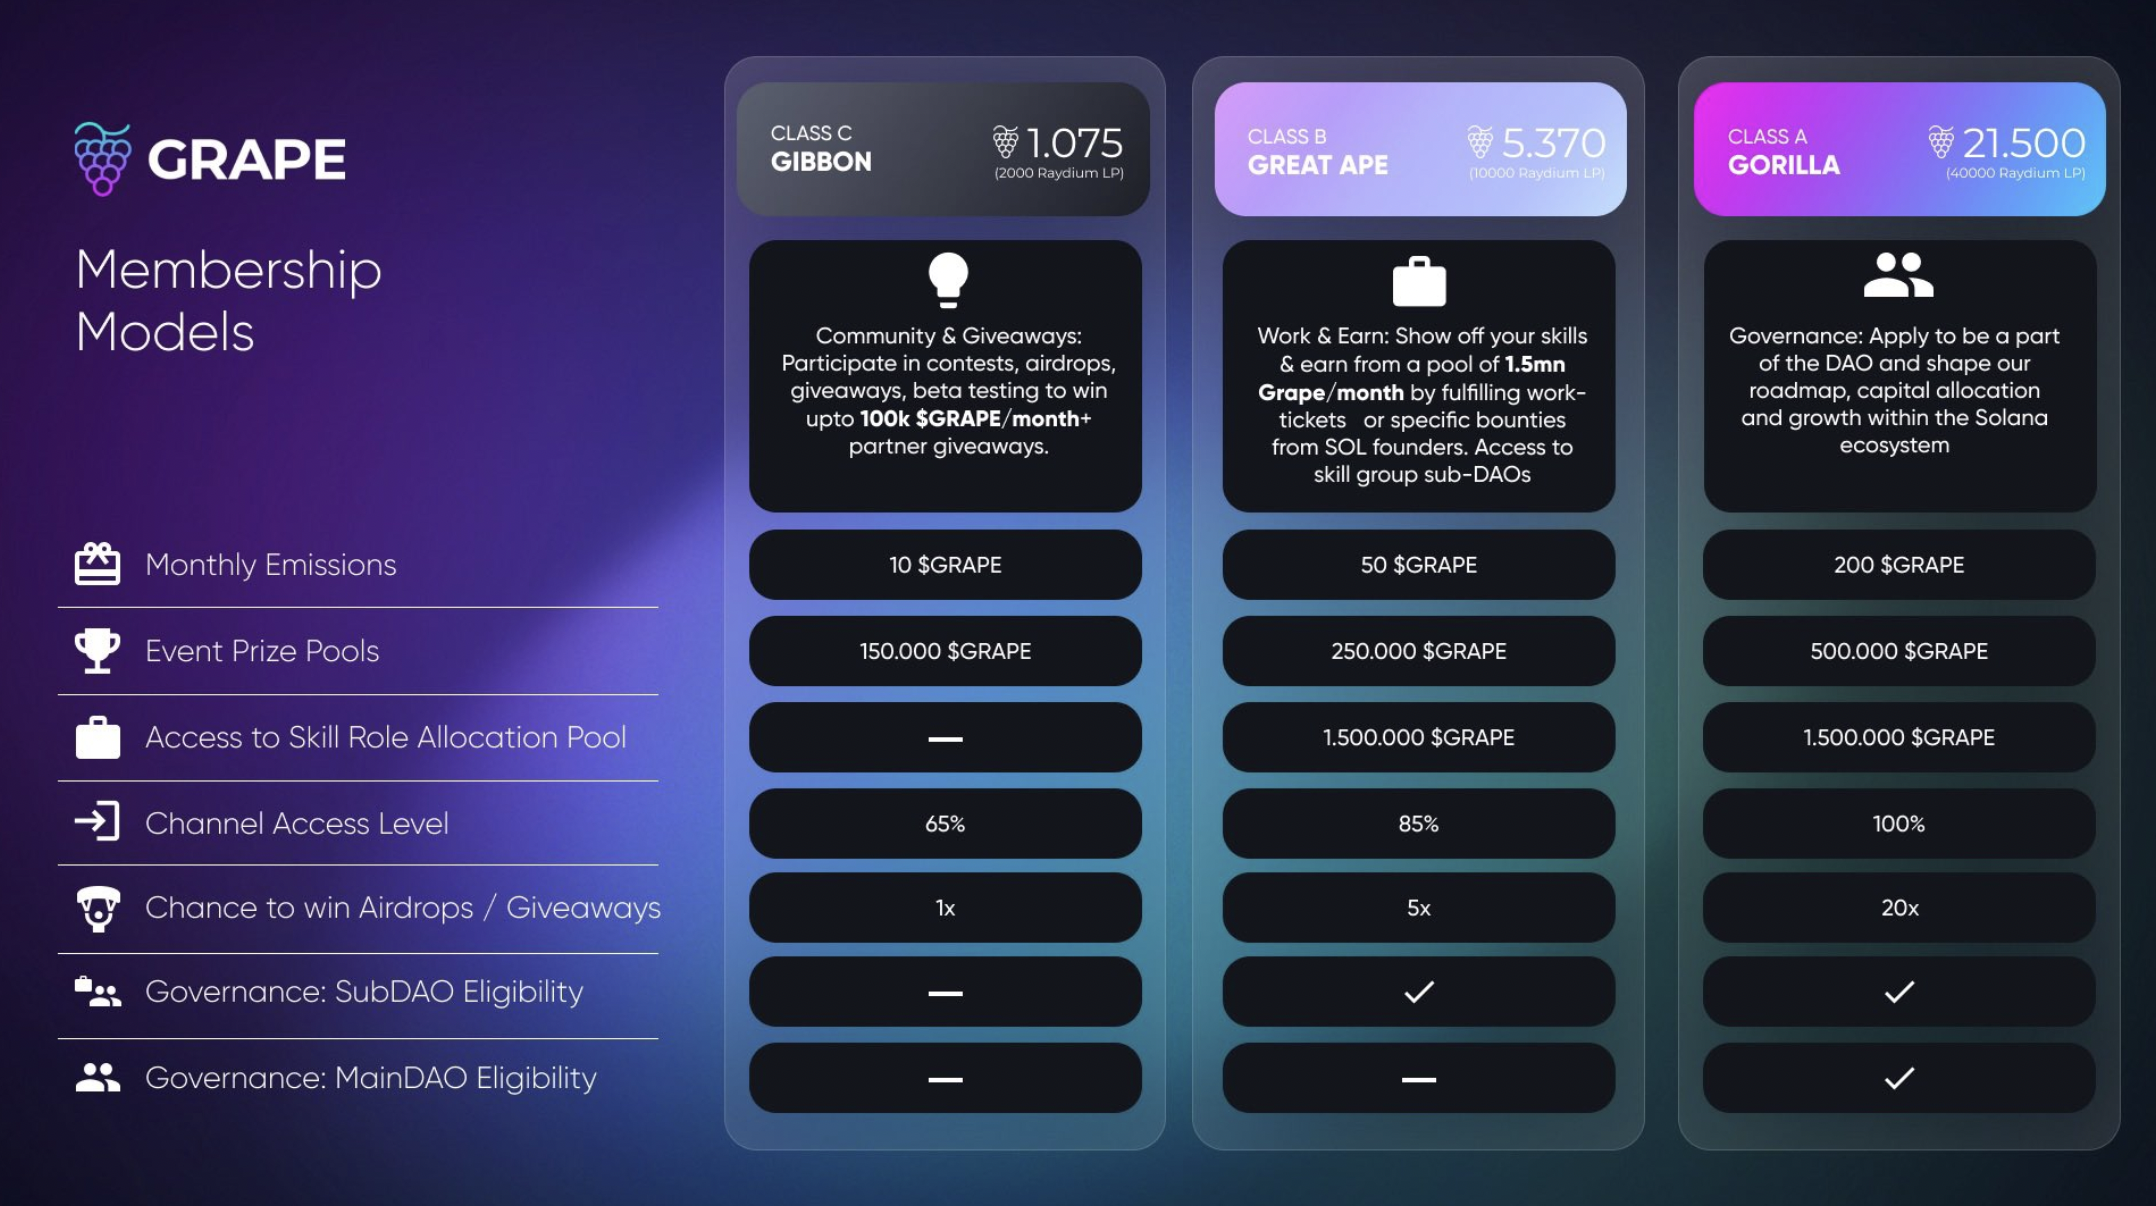
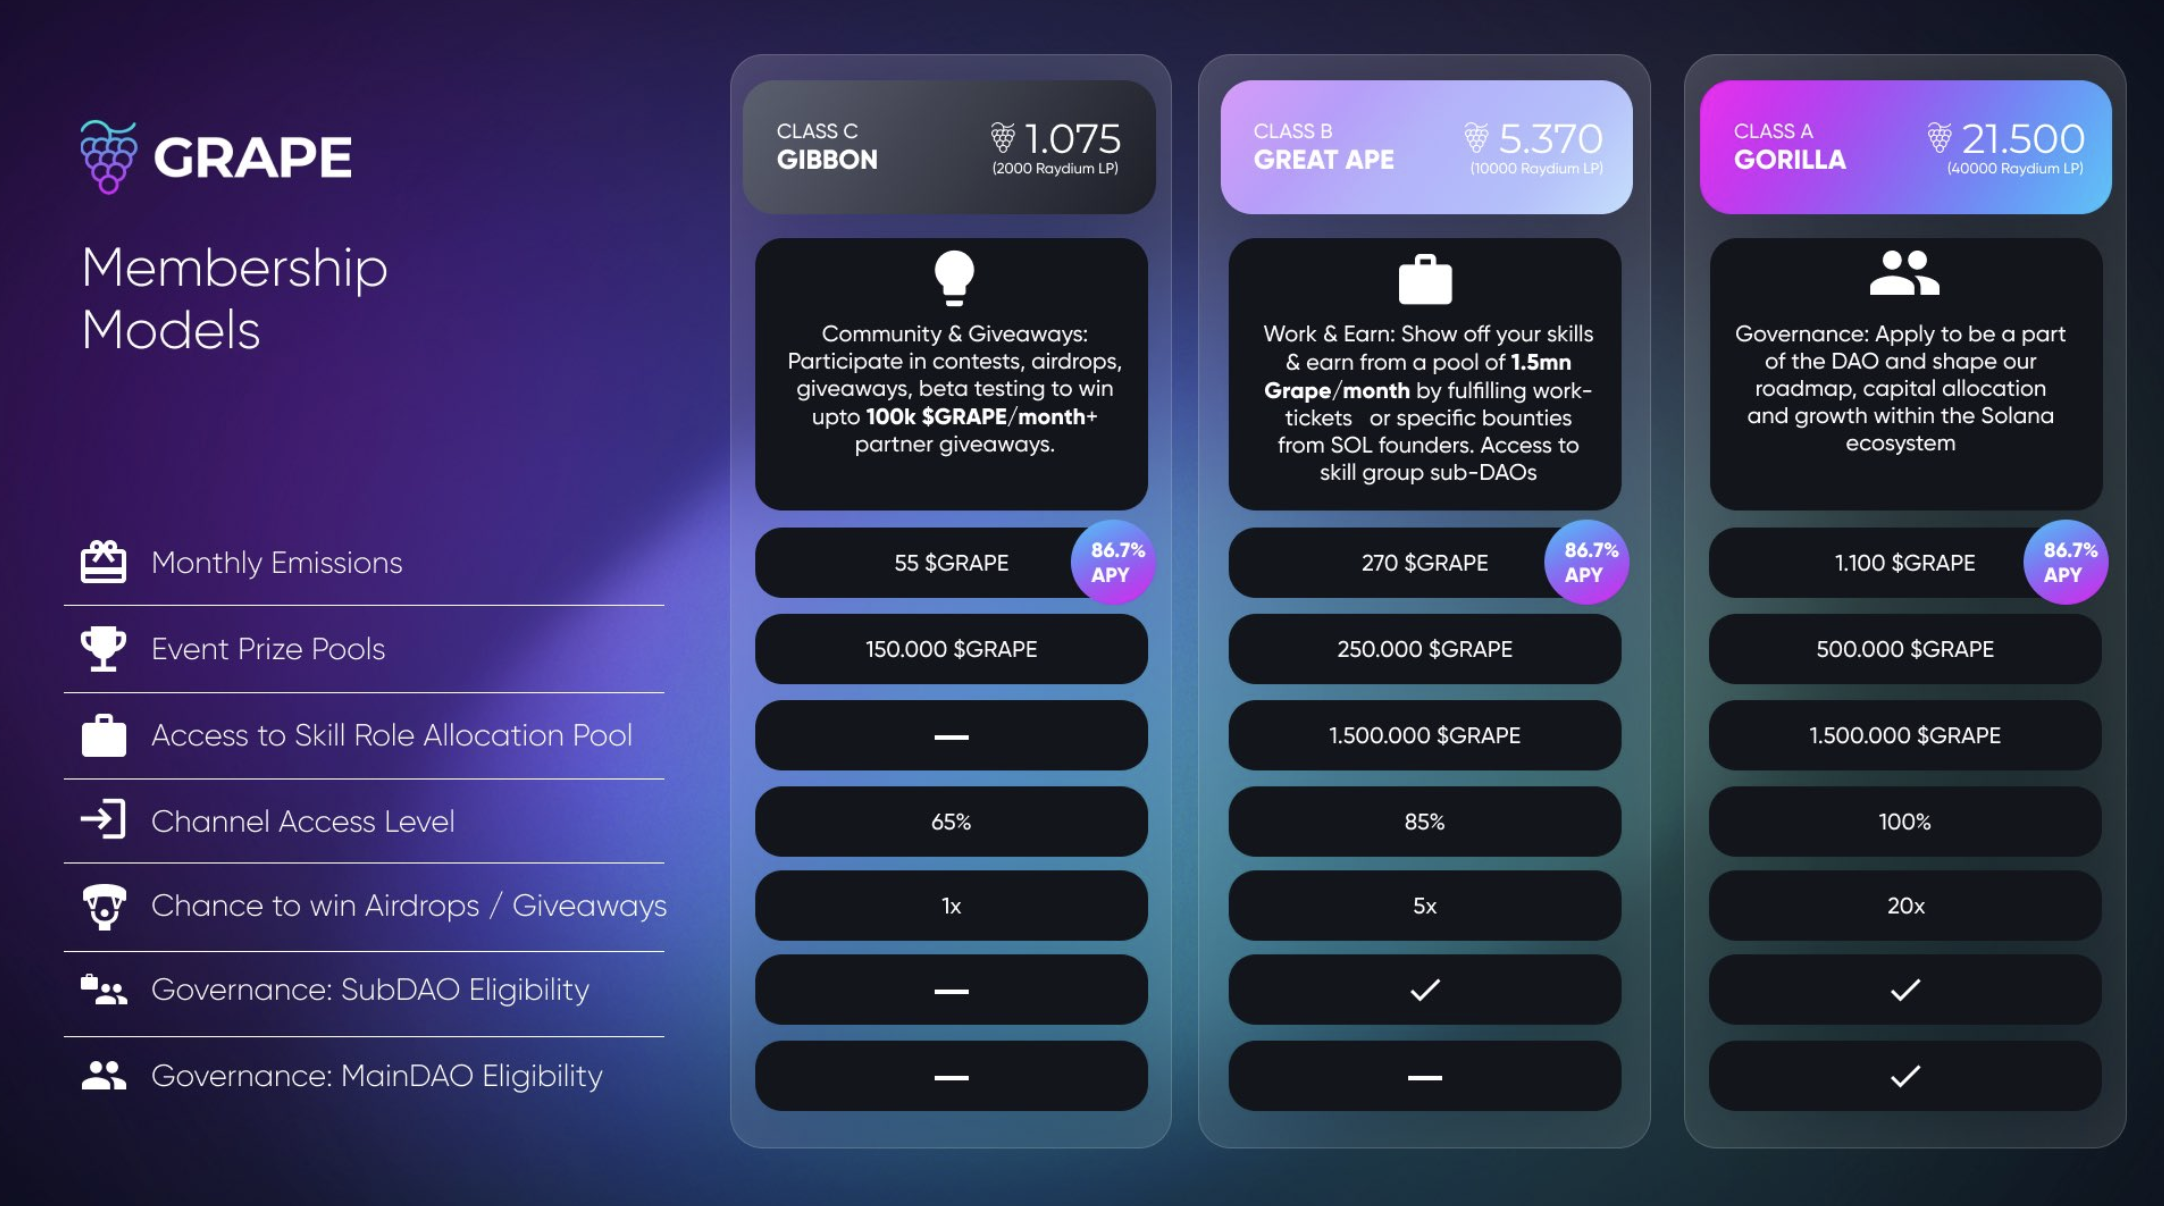
GitBook: [#50] Infographic and DAO reapplication documentation

diff --git a/grape-dao/dao-organization/additions-and-removals.md b/grape-dao/dao-organization/additions-and-removals.md
@@ -1,0 +1,31 @@
+# Additions and Removals
+
+### **DAO Additions**
+
+New additions are sourced from the _**DAO-prospects**_; _****_ a channel, which applicants get access after submitting a [<mark style="color:purple;">**DAO Application**</mark>](../../grape-community/get-involved/dao-application.md). Every Sunday, the past week's candidates are evaluated and are either granted or refused the DAO role based on the aforementioned criteria.&#x20;
+
+
+
+### **DAO Removals**
+
+DAO members will be automatically removed in case of **inactivity**.&#x20;
+
+The metric used to assess inactivity is lack of use/interaction with the Grape DAO's main proposal and discussion tool, Discourse, for over two weeks. Participating in the decision-making is crucial for the success of the DAO.
+
+
+
+**Reapplication Process**
+
+In case a member got removed from the DAO due to inactivity and wants to re-apply:
+
+* Resubmit the form in [<mark style="color:purple;">**#dao-application**</mark>](https://discord.gg/greatape) __ on Discord.
+* Once in the #dao-prospects channel, provide an explanation for:&#x20;
+  * the lack of activity,&#x20;
+  * the reason why you wish to return, and&#x20;
+  * what you would like to do if you get to become a DAO Member again.
+
+After that, it’s up to the DAO to accept reapplicants back. Reapplications will be evaluated every week, on Sunday’s DAO call, along with other additions and removals.
+
+The DAO Board will be keeping track of all future reapplicants and be accepting a maximum of 2 reapplications per member.&#x20;
+
+We realize that often life gets in the way of things. In that case, please give us a heads-up if you need to be away for a while so that we don't misinterpret your inactivity.

diff --git a/grape-dao/dao-organization/README.md b/grape-dao/dao-organization/README.md
@@ -8,9 +8,9 @@ description: >-
 
 ### subDAOs
 
-The <mark style="color:purple;">****</mark> [<mark style="color:purple;">**subDAOs**</mark> ](../grape-subdaos/sub-daos.md)are our economic and social powerhouses and sustain value generation for the whole Grape Community. They consist of members with specific talents recognized by a corresponding [<mark style="color:purple;">**Skill Role**</mark>](../grape-community/get-involved/skill-roles.md).
+The <mark style="color:purple;">****</mark> [<mark style="color:purple;">**subDAOs**</mark> ](../../grape-subdaos/sub-daos.md)are our economic and social powerhouses and sustain value generation for the whole Grape Community. They consist of members with specific talents recognized by a corresponding [<mark style="color:purple;">**Skill Role**</mark>](../../grape-community/get-involved/skill-roles.md).
 
-If you have a certain skill or talent that you think can help the community and want to be part of Grape, hop on our Discord server or visit: [<mark style="color:purple;">**Get involved!**</mark>](../grape-community/get-involved/)
+If you have a certain skill or talent that you think can help the community and want to be part of Grape, hop on our Discord server or visit: [<mark style="color:purple;">**Get involved!**</mark>](../../grape-community/get-involved/)
 
 ### Discord and Discourse
 

diff --git a/grape-community/get-involved/README.md b/grape-community/get-involved/README.md
@@ -18,9 +18,7 @@ Grape Membership: A way to get entertained, learn, and network **Crypto-Style**!
 * Contests and events with GRAPE prizes.
 * Guaranteed monthly emissions based on your Class.
 
-![Grape Membership Models](<../../.gitbook/assets/image (1).png>)
-
-**The distribution of emissions is declared and decided by the DAO every month. These emissions are used to sustain community operations, i.e. finance events and reward skill roles.**&#x20;
+![](<../../.gitbook/assets/image (2).png>)
 
 Based on the current emission schedule, the inflation expected in the next year's epochs from Community Emissions are the following:
 
@@ -43,11 +41,11 @@ To compensate token holders for the emission schedule and prevent the dilution o
 
 **As seen in the infographic above the token requirements per class increase by** \~5.3%, **for the month of January 2022, to:** &#x20;
 
-Class C - Gibbon 1075 GRAPE
+Class C - Gibbon 1,075 GRAPE
 
-Class B - Great Ape 5370 GRAPE
+Class B - Great Ape 5,370 GRAPE
 
-Class A - Gorilla 21500 GRAPE
+Class A - Gorilla 21,500 GRAPE
 
 
 

diff --git a/SUMMARY.md b/SUMMARY.md
@@ -19,7 +19,8 @@
 ## Grape DAO
 
 * [Responsibilities](grape-dao/dao-responsibilities.md)
-* [Organization](grape-dao/dao-organization.md)
+* [Organization](grape-dao/dao-organization/README.md)
+  * [Additions and Removals](grape-dao/dao-organization/additions-and-removals.md)
 * [Proposals & Voting](grape-dao/proposals-and-voting/README.md)
   * [How to create Proposals](grape-dao/proposals-and-voting/how-to-create-proposals.md)
 
